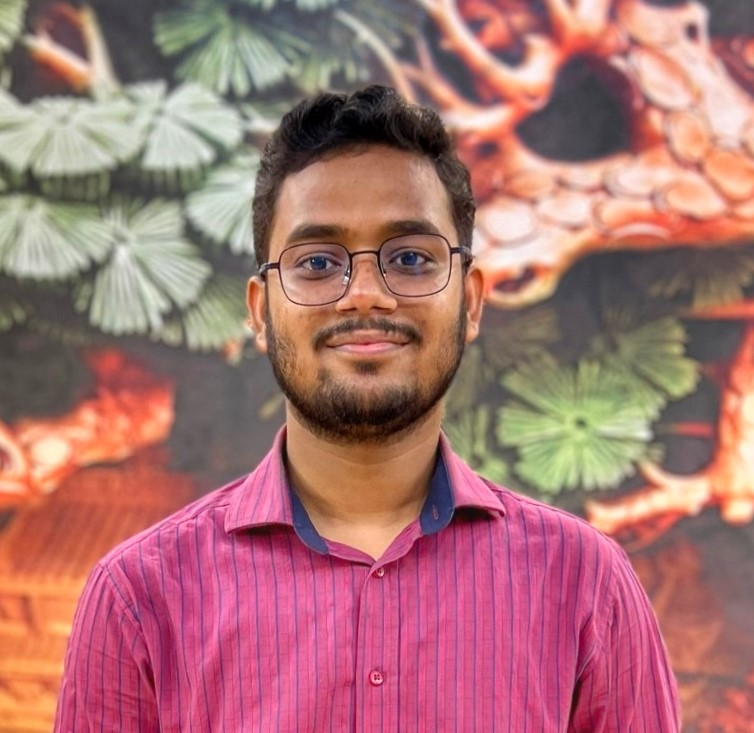
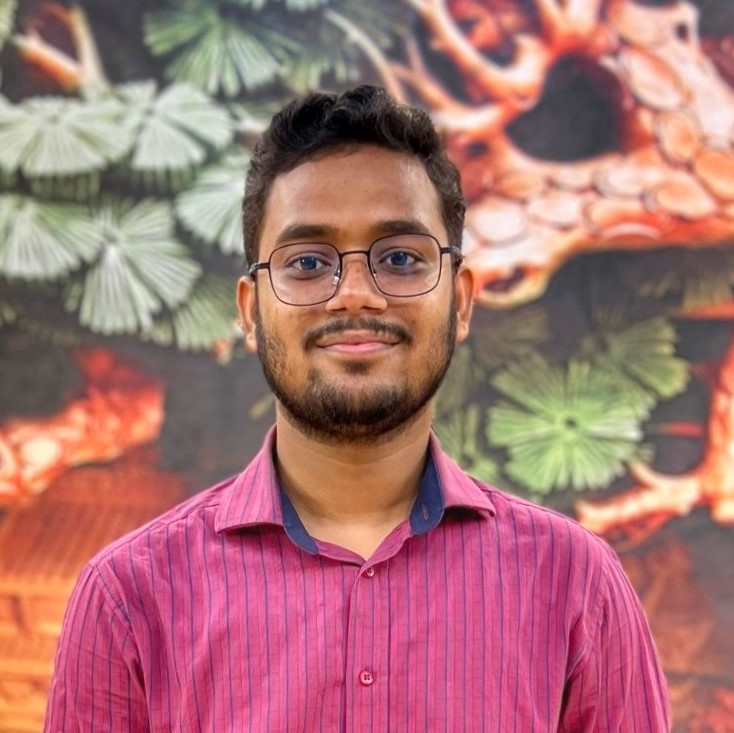
change the orientation of the teams picture

diff --git a/index.html b/index.html
@@ -194,62 +194,7 @@
             <!--/column -->
           </div>
           <!--/.row -->
-          <div class="row gx-lg-8 gx-xl-12 gy-10 align-items-center">
-            <div class="col-lg-7 order-lg-2">
-              <figure><img class="w-auto" src="./assets/img/illustrations/i2.png" srcset="./assets/img/illustrations/i2@2x.png 2x" alt="" /></figure>
-            </div>
-            <!--/column -->
-            <div class="col-lg-5">
-              <h2 class="fs-15 text-uppercase text-line text-primary mb-3">Why Choose Us?</h2>
-              <h3 class="display-5 mb-7">A few reasons why our valued customers choose us.</h3>
-              <div class="accordion accordion-wrapper" id="accordionExample">
-                <div class="card plain accordion-item">
-                  <div class="card-header" id="headingOne">
-                    <button class="accordion-button" data-bs-toggle="collapse" data-bs-target="#collapseOne" aria-expanded="true" aria-controls="collapseOne"> Professional Design </button>
-                  </div>
-                  <!--/.card-header -->
-                  <div id="collapseOne" class="accordion-collapse collapse show" aria-labelledby="headingOne" data-bs-parent="#accordionExample">
-                    <div class="card-body">
-                      <p>Fusce dapibus, tellus ac cursus commodo, tortor mauris condimentum nibh, ut fermentum massa justo sit amet risus. Cras mattis consectetur purus sit amet fermentum. Praesent commodo cursus magna, vel.</p>
-                    </div>
-                    <!--/.card-body -->
-                  </div>
-                  <!--/.accordion-collapse -->
-                </div>
-                <!--/.accordion-item -->
-                <div class="card plain accordion-item">
-                  <div class="card-header" id="headingTwo">
-                    <button class="collapsed" data-bs-toggle="collapse" data-bs-target="#collapseTwo" aria-expanded="false" aria-controls="collapseTwo"> Top-Notch Support </button>
-                  </div>
-                  <!--/.card-header -->
-                  <div id="collapseTwo" class="accordion-collapse collapse" aria-labelledby="headingTwo" data-bs-parent="#accordionExample">
-                    <div class="card-body">
-                      <p>Fusce dapibus, tellus ac cursus commodo, tortor mauris condimentum nibh, ut fermentum massa justo sit amet risus. Cras mattis consectetur purus sit amet fermentum. Praesent commodo cursus magna, vel.</p>
-                    </div>
-                    <!--/.card-body -->
-                  </div>
-                  <!--/.accordion-collapse -->
-                </div>
-                <!--/.accordion-item -->
-                <div class="card plain accordion-item">
-                  <div class="card-header" id="headingThree">
-                    <button class="collapsed" data-bs-toggle="collapse" data-bs-target="#collapseThree" aria-expanded="false" aria-controls="collapseThree"> Header and Slider Options </button>
-                  </div>
-                  <!--/.card-header -->
-                  <div id="collapseThree" class="accordion-collapse collapse" aria-labelledby="headingThree" data-bs-parent="#accordionExample">
-                    <div class="card-body">
-                      <p>Fusce dapibus, tellus ac cursus commodo, tortor mauris condimentum nibh, ut fermentum massa justo sit amet risus. Cras mattis consectetur purus sit amet fermentum. Praesent commodo cursus magna, vel.</p>
-                    </div>
-                    <!--/.card-body -->
-                  </div>
-                  <!--/.accordion-collapse -->
-                </div>
-                <!--/.accordion-item -->
-              </div>
-              <!--/.accordion -->
-            </div>
-            <!--/column -->
-          </div>
+         
           <!--/.row -->
         </div>
         <!-- /.container -->
@@ -260,57 +205,43 @@
     <section id="about">
       <div class="wrapper bg-light">
         <div class="container py-14 py-md-17">
+          <div class="row align-items-center">
+            <h2 class="display-5 mb-5">Meet the Team</h2>
+          </div>
           <div class="row gx-lg-8 gx-xl-12 gy-10 align-items-center">
            <!-- <div class="col-lg-4">
-              <h2 class="fs-15 text-uppercase text-line text-primary text-center mb-3">Meet the Team</h2>
               <h3 class="display-5 mb-5">Who are the members of our society?  </h3>
               <p>All currently registered students, either full-time or part-time, in any graduate program at the Department of Computer Science at the Memorial University of Newfoundland are considered members of the society. </p>
               <a href="#" class="btn btn-primary rounded-pill mt-3">See All Members</a>
-            </div> 
-            -->
+            </div>  -->
+            
             <!--/column -->
 
             <!-- #################################### Members ##################################### -->
             <div class="col-lg-3">
-
-            <div class="col-lg-8">  <!-- <div class="row gx-lg-8 gx-xl-12 gy-6 gy-md-0 text-center">  -->
-              <!-- <div class="carousel owl-carousel text-center" data-margin="30" data-dots="true" data-autoplay="false" data-autoplay-timeout="5000" data-responsive='{"0":{"items": "1"}, "768":{"items": "2"}, "992":{"items": "2"}, "1200":{"items": "3"}}'> -->
-                <div class="item">
-                  <img class="rounded-circle w-20 mx-auto mb-4" src="./assets/img/avatars/Amin.jpeg" srcset="./assets/img/avatars/Amin.jpeg 2x" alt="" />
-                  <h4 class="mb-1">S. M. Amin Taheri G.</h4>
-                  <div class="meta mb-2">President</div>
-                  <p class="mb-2">MSc. Computer Science</p>
-                  <nav class="nav social justify-content-center text-center mb-0">
-                    <a href="https://amintaheri23.github.io/"><i class="uil uil-globe"></i></a>
-                    <a href="mailto:ataherighahf@mun.ca"><i class="uil uil-envelope"></i></a>
-                    <a href="https://linkedin.com/in/sed-amin-taheri"><i class="uil uil-linkedin"></i></a>
-                  </nav>
-                  <!-- /.social -->
-                </div>
-                <!-- /.item -->
-                <div class="item">
-                  <img class="rounded-circle w-20 mx-auto mb-4" src="./assets/img/avatars/Mahta.jpeg" srcset="./assets/img/avatars/Mahta.jpeg 2x" alt="" />
-                  <h4 class="mb-1">Mahta Ghorbani</h4>
-                  <div class="meta mb-2">Vice-president of Communication</div>
-                  <p class="mb-2">MSc. Computer Science</p>
-                  <nav class="nav social justify-content-center text-center mb-0">
-                    <a href="mailto:fatemehg@mun.ca"><i class="uil uil-envelope"></i></a>
-                    <a href="https://www.linkedin.com/in/fatemeh-ghorbani-789103132/"><i class="uil uil-linkedin"></i></a>
-                  </nav>
-                  <!-- /.social -->
-                </div>
-
+              <!-- <div class="row gx-lg-8 gx-xl-12 gy-6 gy-md-0 text-center">  -->
+                <!-- <div class="carousel owl-carousel text-center" data-margin="30" data-dots="true" data-autoplay="false" data-autoplay-timeout="5000" data-responsive='{"0":{"items": "1"}, "768":{"items": "2"}, "992":{"items": "2"}, "1200":{"items": "3"}}'> -->
+                  <div class="item">
+                    <img class="rounded-circle w-20 mx-auto mb-4" src="./assets/img/avatars/Amin.jpeg" srcset="./assets/img/avatars/Amin.jpeg 2x" alt="" />
+                    <h5 class="mb-1">S. M. Amin Taheri G.</h5>
+                    <div class="meta mb-2">President</div>
+                    <p class="mb-2">MSc. Computer Science</p>
+                    <nav class="nav social justify-content-center text-center mb-0">
+                      <a href="https://amintaheri23.github.io/"><i class="uil uil-globe"></i></a>
+                      <a href="mailto:ataherighahf@mun.ca"><i class="uil uil-envelope"></i></a>
+                      <a href="https://linkedin.com/in/sed-amin-taheri"><i class="uil uil-linkedin"></i></a>
+                    </nav>
+                    <!-- /.social -->
+                  </div>
+    
             </div>
-              </div>
               
-              <div class="col-lg-3">
-                <div class="col-lg-8">
-
+            <div class="col-lg-3">
                 <!-- /.item -->
                 <div class="item">
                   <img class="rounded-circle w-20 mx-auto mb-4" src="./assets/new-img/Hamza.JPG" srcset="./assets/new-img/Hamza.JPG 2x" alt="" />
-                  <h4 class="mb-1">Hamza Khan</h4>
-                  <div class="meta mb-2">Vice-president Carrer Development</div>
+                  <h5 class="mb-1">Hamza Khan</h5>
+                  <div class="meta mb-2">VP Carrer Development</div>
                   <p class="mb-2">MSc. Computer Science</p>
                   <nav class="nav social justify-content-center text-center mb-0">
                     <a href="mailto:mohammadhk@mun.ca"><i class="uil uil-envelope"></i></a>
@@ -318,30 +249,15 @@
                   </nav>
                   <!-- /.social -->
                 </div>
-                <!-- /.item -->
-                <div class="item">
-                  <img class="rounded-circle w-20 mx-auto mb-4" src="./assets/img/avatars/Kabir.jpeg" srcset="./assets/img/avatars/Kabir.jpeg 2x" alt="" />
-                  <h4 class="mb-1">Kabir Zubaer</h4>
-                  <div class="meta mb-2">Vice-president of Creativity</div>
-                  <p class="mb-2">MSc. Computer Science</p>
-                  <nav class="nav social justify-content-center text-center mb-0">
-                    <a href="mailto:mkzubaer@mun.ca"><i class="uil uil-envelope"></i></a>
-                  </nav>
-                  <!-- /.social -->
-                </div>
-
-              </div>
             </div>
 
                 
             <div class="col-lg-3">
-              <div class="col-lg-8">
-
                 <!-- /.item -->
                 <div class="item">
                   <img class="rounded-circle w-20 mx-auto mb-4" src="./assets/img/avatars/Rezvan.jpeg" srcset="./assets/img/avatars/Rezvan.jpeg 2x" alt="" />
-                  <h4 class="mb-1">Rezvan Karaji</h4>
-                  <div class="meta mb-2">Vice-president of Finance</div>
+                  <h5 class="mb-1">Rezvan Karaji</h5>
+                  <div class="meta mb-2">VP of Finance</div>
                   <p class="mb-2">MSc. Computer Science</p>
                   <nav class="nav social justify-content-center text-center mb-0">
                     <a href="mailto:rkaraji@mun.ca"><i class="uil uil-envelope"></i></a>
@@ -349,27 +265,13 @@
                   </nav>
                   <!-- /.social -->
                 </div>
-                <div class="item">
-                  <img class="rounded-circle w-20 mx-auto mb-4" src="./assets/img/avatars/israk.jpeg" srcset="./assets/img/avatars/israk.jpeg 2x" alt="" />
-                  <h4 class="mb-1">M. Israk Ahmed</h4>
-                  <div class="meta mb-2">Member-at-large</div>
-                  <p class="mb-2">MSc. Computer Science</p>
-                  <nav class="nav social justify-content-center text-center mb-0">
-                    <a href="mailto:misraka@mun.ca"><i class="uil uil-envelope"></i></a>
-                  </nav>
-                  <!-- /.social -->
-                </div>
-
-              </div>
             </div>
 
 
-            <div class="col-lg-3">
-              <div class="col-lg-8">
-
+          <div class="col-lg-3">
               <div class="item">
                 <img class="rounded-circle w-20 mx-auto mb-4" src="./assets/img/avatars/stock.png" srcset="./assets/img/avatars/stock.png 2x" alt="" />
-                <h4 class="mb-1">Oluwafunmiwo Judah Sholola</h4>
+                <h5 class="mb-1">Oluwafunmiwo Judah Sholola</h5>
                 <div class="meta mb-2">Member-at-large: </div>
                 <p class="mb-2">MSc. Computer Science</p>
                 <nav class="nav social justify-content-center text-center mb-0">
@@ -377,21 +279,7 @@
                 </nav>
                 <!-- /.social -->
               </div>
-              <div class="item">
-                <img class="rounded-circle w-20 mx-auto mb-4" src="./assets/img/avatars/stock.png" srcset="./assets/img/avatars/stock.png 2x" alt="" />
-                <h4 class="mb-1">Osama Nori</h4>
-                <div class="meta mb-2">Vice President of Academic and Career</div>
-                <p class="mb-2">MSc. Computer Science</p>
-                <nav class="nav social justify-content-center text-center mb-0">
-                  <a href="mailto:oaanori@mun.ca"><i class="uil uil-envelope"></i></a>
-                </nav>
-                <!-- /.social -->
-              </div> 
-
-            </div>
           </div>
-
-
                 <!-- /.item -->
               <!-- </div> -->
               <!-- /.owl-carousel -->
@@ -401,6 +289,90 @@
 
           </div>
           <!--/.row -->
+
+          <div class="row gx-lg-8 gx-xl-12 gy-10 align-items-center">
+            <!-- <div class="col-lg-4">
+               <h2 class="fs-15 text-uppercase text-line text-primary text-center mb-3">Meet the Team</h2>
+               <h3 class="display-5 mb-5">Who are the members of our society?  </h3>
+               <p>All currently registered students, either full-time or part-time, in any graduate program at the Department of Computer Science at the Memorial University of Newfoundland are considered members of the society. </p>
+               <a href="#" class="btn btn-primary rounded-pill mt-3">See All Members</a>
+             </div> 
+             -->
+             <!--/column -->
+ 
+             <!-- #################################### Members ##################################### -->
+             <div class="col-lg-3">
+                <!-- <div class="row gx-lg-8 gx-xl-12 gy-6 gy-md-0 text-center">  -->
+                 <!-- <div class="carousel owl-carousel text-center" data-margin="30" data-dots="true" data-autoplay="false" data-autoplay-timeout="5000" data-responsive='{"0":{"items": "1"}, "768":{"items": "2"}, "992":{"items": "2"}, "1200":{"items": "3"}}'> -->
+                   <!-- /.item -->
+                   <div class="item">
+                     <img class="rounded-circle w-20 mx-auto mb-4" src="./assets/img/avatars/Mahta.jpeg" srcset="./assets/img/avatars/Mahta.jpeg 2x" alt="" />
+                     <h5 class="mb-1">Mahta Ghorbani</h5>
+                     <div class="meta mb-2">VP of Communication</div>
+                     <p class="mb-2">MSc. Computer Science</p>
+                     <nav class="nav social justify-content-center text-center mb-0">
+                       <a href="mailto:fatemehg@mun.ca"><i class="uil uil-envelope"></i></a>
+                       <a href="https://www.linkedin.com/in/fatemeh-ghorbani-789103132/"><i class="uil uil-linkedin"></i></a>
+                     </nav>
+                     <!-- /.social -->
+               </div>
+             </div>
+               
+             <div class="col-lg-3">
+                 <!-- /.item -->
+                 <!-- /.item -->
+                 <div class="item">
+                   <img class="rounded-circle w-20 mx-auto mb-4" src="./assets/img/avatars/Kabir.jpeg" srcset="./assets/img/avatars/Kabir.jpeg 2x" alt="" />
+                   <h5 class="mb-1">Kabir Zubaer</h5>
+                   <div class="meta mb-2">VP of Creativity</div>
+                   <p class="mb-2">MSc. Computer Science</p>
+                   <nav class="nav social justify-content-center text-center mb-0">
+                     <a href="mailto:mkzubaer@mun.ca"><i class="uil uil-envelope"></i></a>
+                   </nav>
+                   <!-- /.social -->
+ 
+               </div>
+             </div>
+ 
+                 
+             <div class="col-lg-3">
+                 <div class="item">
+                   <img class="rounded-circle w-20 mx-auto mb-4" src="./assets/img/avatars/israk.jpeg" srcset="./assets/img/avatars/israk.jpeg 2x" alt="" />
+                   <h5 class="mb-1">M. Israk Ahmed</h5>
+                   <div class="meta mb-2">Member-at-large</div>
+                   <div class="meta mb-2"></div>
+                   <p class="mb-2">MSc. Computer Science</p>
+                   <nav class="nav social justify-content-center text-center mb-0">
+                     <a href="mailto:misraka@mun.ca"><i class="uil uil-envelope"></i></a>
+                   </nav>
+                   <!-- /.social -->
+                 </div>
+             </div>
+ 
+ 
+             <div class="col-lg-3">
+               <div class="item">
+                 <img class="rounded-circle w-20 mx-auto mb-4" src="./assets/img/avatars/stock.png" srcset="./assets/img/avatars/stock.png 2x" alt="" />
+                 <h5 class="mb-1">Osama Nori</h5>
+                 <div class="meta mb-2">VP of Academic and Career</div>
+                 <p class="mb-2">MSc. Computer Science</p>
+                 <nav class="nav social justify-content-center text-center mb-0">
+                   <a href="mailto:oaanori@mun.ca"><i class="uil uil-envelope"></i></a>
+                 </nav>
+                 <!-- /.social -->
+               </div>
+           </div>
+ 
+ 
+                 <!-- /.item -->
+               <!-- </div> -->
+               <!-- /.owl-carousel -->
+ 
+             <!-- </div> -->
+             <!--/column -->
+ 
+           </div>
+
         </div>
         <!-- /.container -->
       </div>
@@ -471,7 +443,7 @@
         <!-- /column -->
         <div class="col-lg-4">
           <div class="widget">
-            <h4 class="widget-title text-white mb-4">Contact</h4>
+            <h3 class="widget-title text-white mb-4">Contact</h3>
             <a href="mailto:csgs@mun.ca" class="link-body">csgs@mun.ca</a>
             <nav class="nav social justify-content-center text-center mb-0">
               <a href="https://twitter.com/csgs_mun"><p class="uil uil-twitter"></p></a>
@@ -488,7 +460,7 @@
         <!-- /column -->
         <div class="col-lg-4">
           <div class="widget">
-            <h4 class="widget-title text-white mb-4">Address</h4>
+            <h3 class="widget-title text-white mb-4">Address</h3>
             <address>EN-1048<br class="d-none d-lg-block" /> Memorial University of Newfoundland<br class="d-none d-lg-block" /> St. John's, NL, Canada</address>
           </div>
           <!-- /.widget -->
